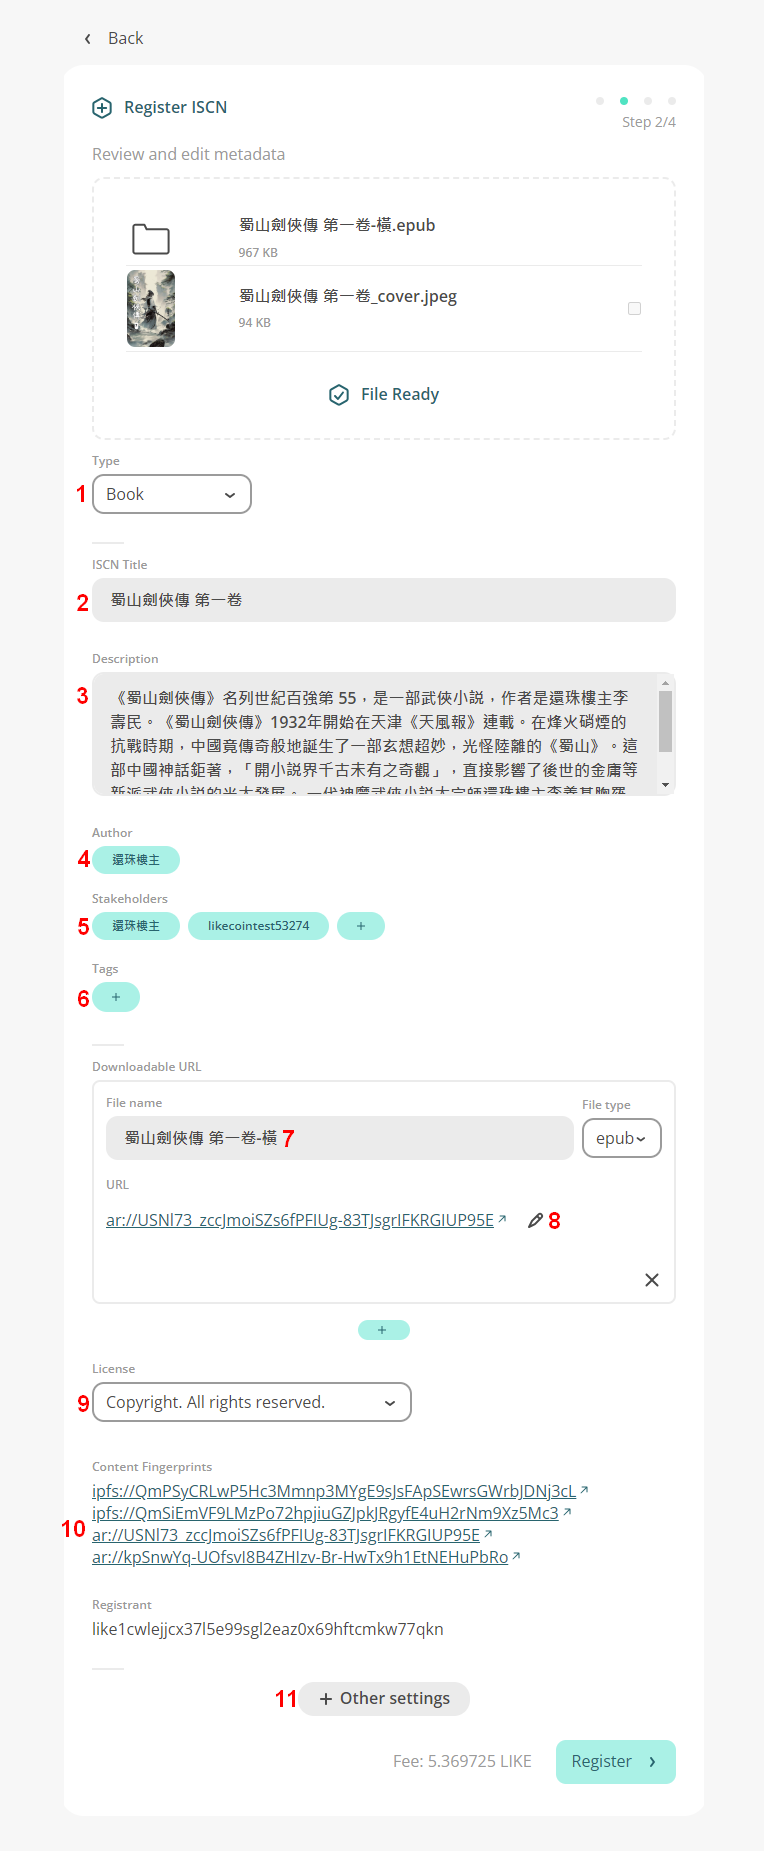
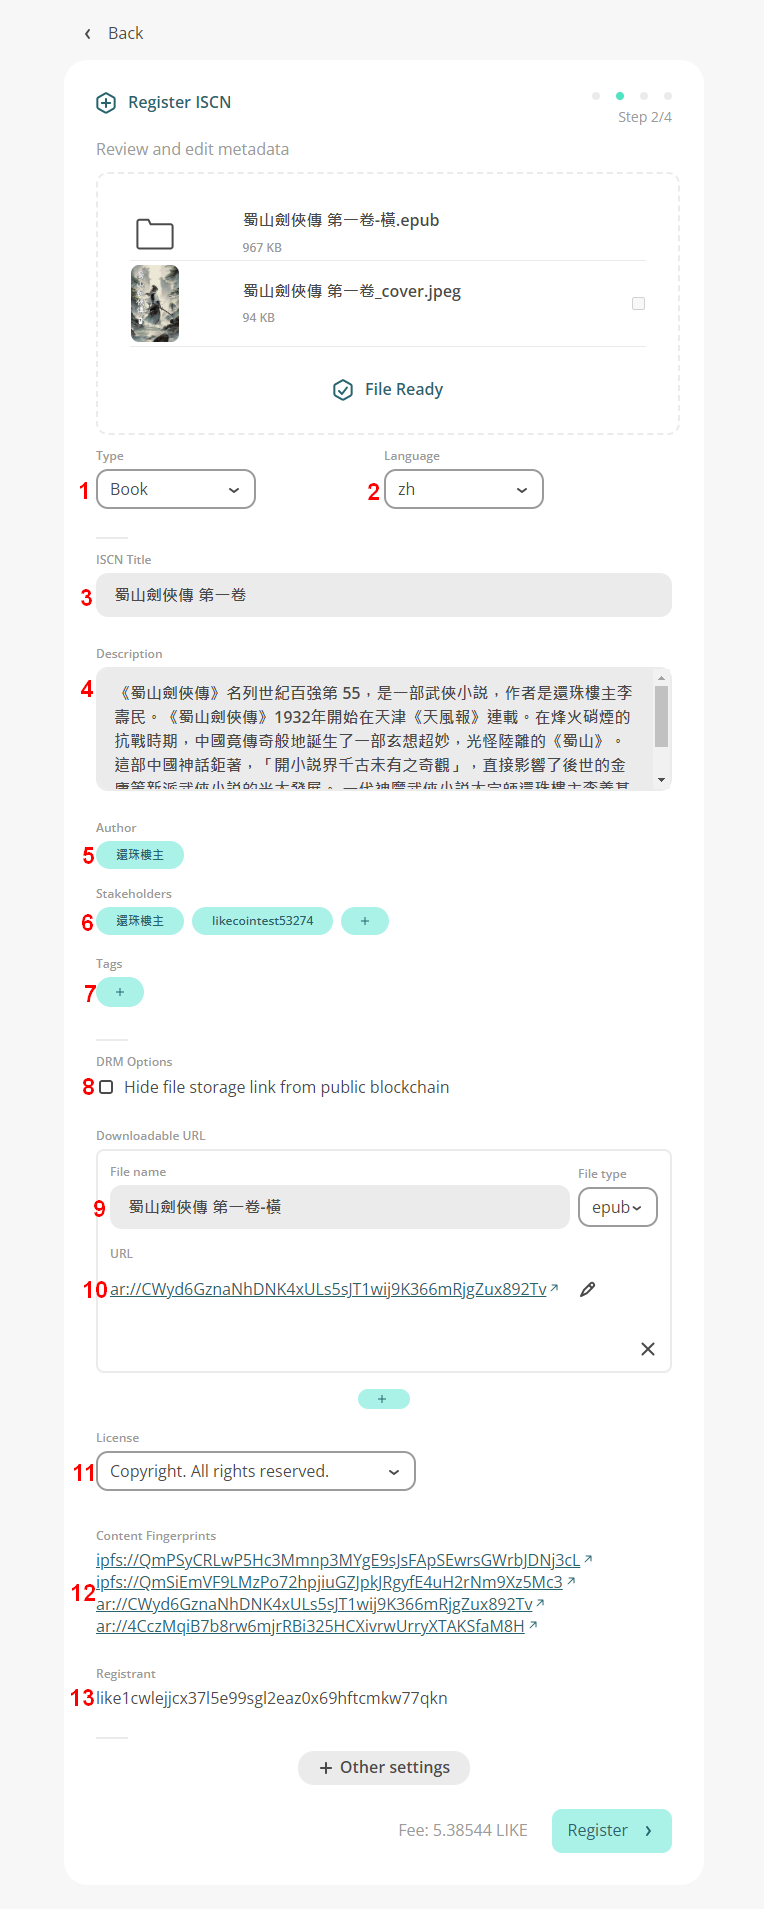
GITBOOK-4706: 出版電子書

diff --git a/depub/nft-book-press/README.md b/depub/nft-book-press/README.md
@@ -41,7 +41,7 @@ description: 使用 NFT Book Press 將電子書出版為 NFT
 
 ## 製作 EPUB 檔案並輸入元數據 <a href="#edit-metadata" id="edit-metadata"></a>
 
-首先製作好電子書的 [EPUB](https://zh.wikipedia.org/zh-hk/EPUB) 檔案，並確保經已輸入並整理好 Metadata。Metadata 即是[元數據](../what-is-iscn/)。包括書名、作者、封面圖、出版日期、描述等內容。接下內系統能自動從 EPUB Metadata 抽取所需資料以供出版之用。
+首先製作好電子書的 [EPUB](https://zh.wikipedia.org/zh-hk/EPUB) 檔案，並確保經已輸入並整理好 Metadata。Metadata 即是[元數據](../what-is-iscn/)。包括書名、作者、封面圖、出版日期、描述等內容，接下內系統能自動從 EPUB Metadata 抽取所需資料以供出版之用。
 
 ***
 
@@ -78,20 +78,29 @@ description: 使用 NFT Book Press 將電子書出版為 NFT
 <figure><img src="../../.gitbook/assets/NFT Book Press 10.png" alt=""><figcaption><p>File Ready 頁面</p></figcaption></figure>
 
 1. Type：顯示 ISCN 種類為 Book 即電子書。
-2. ISCN Title：書名
-3. Description：描述
-4. Author：作者
-5. Stakeholders：持份者。系統預設加入作者及正在製作電子書的帳戶為持份者。
-6. Tags：標籤，可加入作為分類。
-7. Downloadable URL：下載書檔時所顯示的名稱
-8. URL：書檔所對應的 URL
-9. License：可以選擇合適的版權宣告，預設是版權所有 ( Copyright. All rights reserved. )
-10. Content Fingerprints：顯示書檔及封面 Hash 網址，每兩條 Hash 對應一個檔案。包括 [IPFS](https://ipfs.tech/) 及 [AR ( Arweave ) ](https://www.arweave.org/)格式。以附圖為例，四條 Hash 代表 IPFS 的 EPUB 檔、IPFS 的封面檔、AR 的 EPUB 檔和 AR 的封面檔，不妨點擊網址核對並查看內容是否經已成功上傳。
-11. +Other settings：點開它出現 URL 可輸入書籍的網址及 ISBN 輸入 ISBN 號碼。
+2. Lang:  系統會跟據 Metadata 顯示對應語言，以圖示為例，zh 為繁體中文
+3. ISCN Title：書名
+4. Description：描述
+5. Author：作者
+6. Stakeholders：持份者。系統預設加入作者及正在製作電子書的帳戶為持份者。
+7. Tags：標籤，可加入作為分類。
+8. Hide file storage link from public blockchain：隱藏文件儲存鏈接，避免公開在區塊鏈上。
+9. Downloadable URL：下載書檔時所顯示的名稱
+10. URL：書檔所對應的 URL
+11. License：可以選擇合適的版權宣告，預設是版權所有 ( Copyright. All rights reserved. )
+12. Content Fingerprints：顯示書檔及封面 Hash 網址，每兩條 Hash 對應一個檔案。包括 [IPFS](https://ipfs.tech/) 及 [AR ( Arweave ) ](https://www.arweave.org/)格式。以附圖為例，四條 Hash 代表 IPFS 的 EPUB 檔、IPFS 的封面檔、AR 的 EPUB 檔和 AR 的封面檔，不妨點擊網址核對並查看內容是否經已成功上傳。
+13. Registrant：註冊時使用的錢包地址
 
-完成後點「Register」。
+點開 +Other settings 選擇填為更多內容：
+
+14. URL：書籍內容對應的網址
+15. ISBN：書籍的 ISBN
+16. Publisher：發行商
+17. Original Date Published：最初的出版日期
 
 <figure><img src="../../.gitbook/assets/NFT Book Press 11.png" alt=""><figcaption><p>點「Register」註冊 ISCN</p></figcaption></figure>
+
+完成後點「Register」。
 
 ### 步驟三：註冊 ISCN 完成 <a href="#successfully-registered-iscn" id="successfully-registered-iscn"></a>
 

diff --git a/depub/collect-writing-nft/README.md b/depub/collect-writing-nft/README.md
@@ -14,7 +14,7 @@ description: 如何收藏 Writing NFT
 
 適用於從未註冊過任何區塊鏈錢包的用戶，手機與桌機均適用。
 
-### [已擁有錢包並以信用卡付款收藏 Writing NFT](./#credit-card-with-keplr) <a href="#credit-card-with-keplr" id="credit-card-with-keplr"></a>
+### [已擁有錢包並以信用卡付款收藏 Writing NFT](./#yi-yong-you-qian-bao-bing-yi-xin-yong-ka-fu-kuan-shou-cang-writing-nft-shou-ji-yu-zhuo-ji-jun-shi-yo) <a href="#credit-card-with-keplr" id="credit-card-with-keplr"></a>
 
 適用於已註冊錢包的用戶，可選擇使用[電郵或社交登入](../register/)、[Keplr](../../general-guides/wallet/keplr/)、[Cosmostation](../../general-guides/wallet/cosmostation/)、[Leap](../../general-guides/wallet/leap/how-to-install-leap-extension.md)、[Keplr mobile](../../general-guides/wallet/keplr-mobile/)、[Cosmostation app](../../general-guides/wallet/cosmostation-mobile/) 或 [LikeCoin 手機應用程式](../../general-guides/dapp/liker-land/download.md)等任何一種方式透過桌機或手機瀏覽器以信用卡付款收藏 Writing NFT。
 
